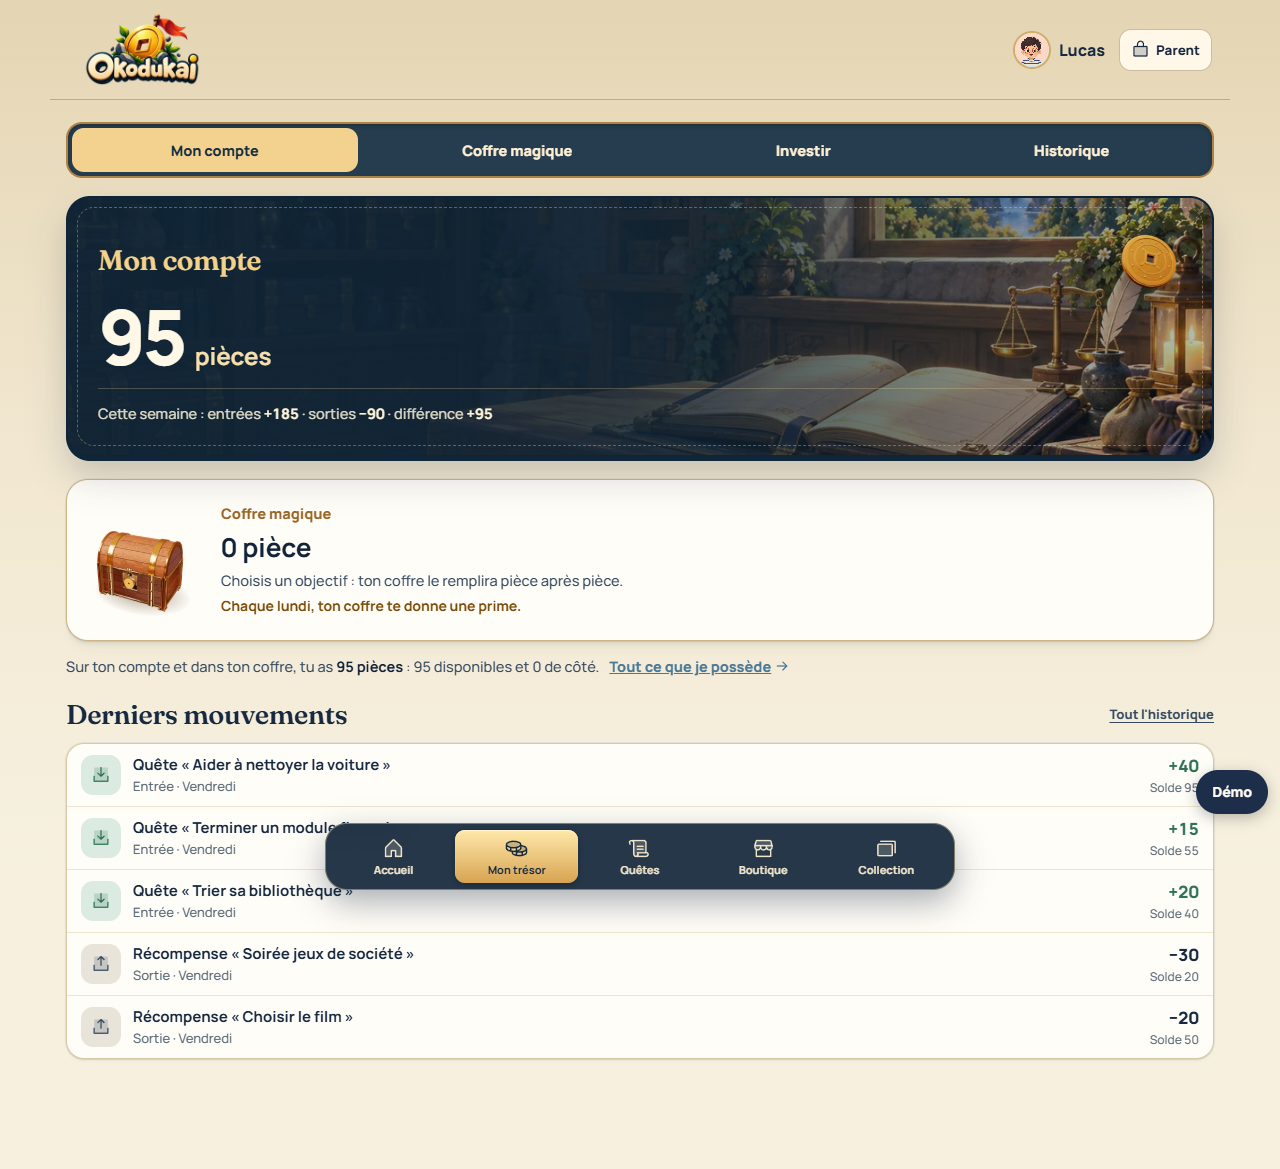
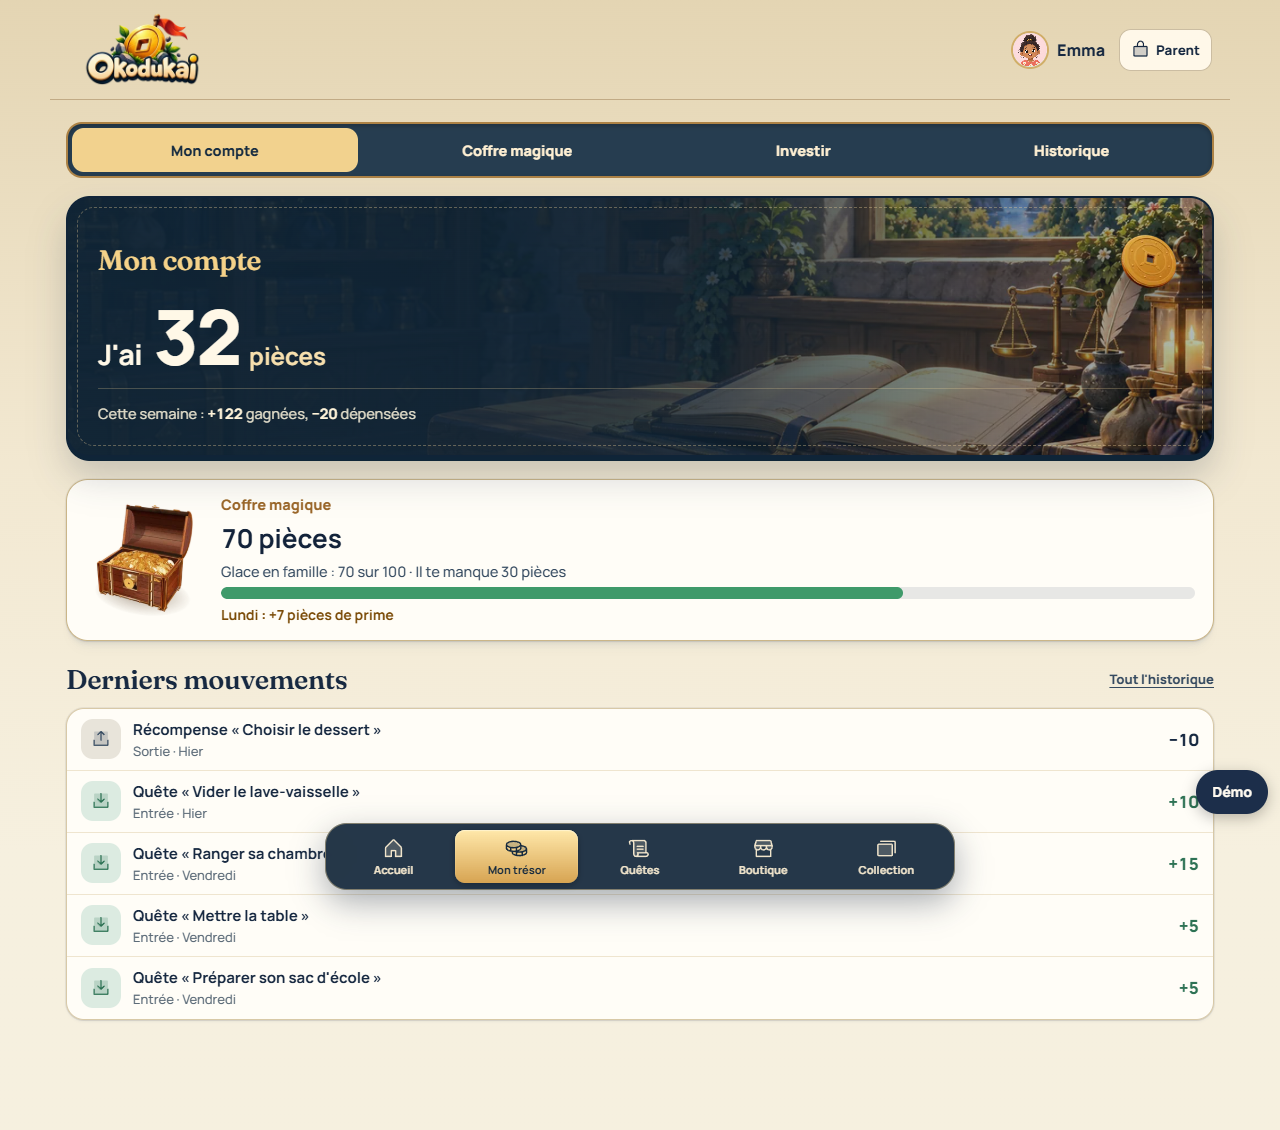
Make savings goals a visual journey

Changed region(s): [[0.0312, 0.0, 1.0, 0.9292], [0.7812, 0.031, 0.9375, 0.0619]]

diff --git a/apps/web/src/components/GoalJourney.tsx b/apps/web/src/components/GoalJourney.tsx
@@ -1,0 +1,35 @@
+import { CoinArt } from "../art/CoinArt";
+import { rewardArtworkName } from "./RewardArt";
+import { defineCopy, useCopy } from "../i18n";
+import "../styles/goal-journey.css";
+
+const copy = defineCopy({
+  fr: { progress: (title: string, present: number, target: number) => `Chemin vers ${title} : ${present} pièces sur ${target}` },
+  en: { progress: (title: string, present: number, target: number) => `Path to ${title}: ${present} of ${target} coins` },
+});
+
+/** A visual path to a goal; the progress values always come from the server. */
+export function GoalJourney({ title, present, target }: { title: string; present: number; target: number }) {
+  const t = useCopy(copy);
+  const art = rewardArtworkName(title);
+  const capped = Math.min(Math.max(0, present), Math.max(1, target));
+  const percent = Math.min(100, Math.max(0, target > 0 ? present / target * 100 : 0));
+  const image = art ? `/assets/rewards/reward-${art}` : "/assets/goals/goal-waypost";
+
+  return <div className="goal-journey" role="progressbar" aria-label={t.progress(title, present, target)} aria-valuemin={0} aria-valuemax={Math.max(1, target)} aria-valuenow={capped}>
+    <div className="goal-journey-path" aria-hidden="true">
+      <div className="goal-journey-walked" style={{ width: `${percent}%` }}><CoinArt size={38} /></div>
+    </div>
+    <img
+      className="goal-journey-destination"
+      src={`${image}-256.webp`}
+      srcSet={`${image}-256.webp 256w, ${image}-512.webp 512w`}
+      sizes="(max-width: 600px) 90px, 115px"
+      alt=""
+      loading="lazy"
+      width="115"
+      height="115"
+      aria-hidden="true"
+    />
+  </div>;
+}

diff --git a/apps/web/src/styles/goal-journey.css b/apps/web/src/styles/goal-journey.css
@@ -1,0 +1,12 @@
+.goal-journey { position: relative; min-height: 132px; overflow: hidden; border: 1px solid #b7ae81; border-radius: 13px; background: radial-gradient(ellipse at 29% 98%, #b4c898 0 21%, transparent 50%), linear-gradient(180deg, #dce8db, #c6d5b1 72%, #a5be8f); }
+.goal-journey-path { position: absolute; left: 22px; right: 123px; bottom: 31px; height: 20px; border-bottom: 6px dashed #8a704b; transform: rotate(-2deg); }
+.goal-journey-walked { position: absolute; left: 0; bottom: -6px; height: 6px; border-radius: 6px; background: #d4a34a; transition: width 360ms ease-out; }
+.goal-journey-walked img { position: absolute; right: -18px; bottom: -13px; width: 38px; height: 38px; filter: drop-shadow(0 4px 3px rgba(57, 49, 28, .25)); }
+.goal-journey-destination { position: absolute; right: 10px; bottom: 5px; width: 115px; height: 115px; object-fit: contain; filter: drop-shadow(0 8px 5px rgba(40, 63, 42, .24)); }
+.money-goal--reached .goal-journey { background: radial-gradient(ellipse at 29% 98%, #c6d6a9 0 21%, transparent 50%), linear-gradient(180deg, #f4ebcc, #d8e4c6 72%, #b5c998); }
+@media (max-width: 600px) {
+  .goal-journey { min-height: 112px; }
+  .goal-journey-path { left: 16px; right: 98px; bottom: 27px; }
+  .goal-journey-destination { width: 94px; height: 94px; right: 4px; bottom: 5px; }
+}
+@media (prefers-reduced-motion: reduce) { .goal-journey-walked { transition: none; } }

diff --git a/apps/web/src/components/RewardArt.tsx b/apps/web/src/components/RewardArt.tsx
@@ -7,13 +7,17 @@ const artwork = [
   { pattern: /jeu[x]? de soci[eé]t[eé]|board.?game|game night/i, name: "family-game" },
 ];
 
+export function rewardArtworkName(title: string) {
+  return artwork.find((item) => item.pattern.test(title))?.name ?? null;
+}
+
 /** Parent-defined rewards remain open-ended; known family moments get their own objects. */
 export function RewardArt({ title, category }: { title: string; category: "EXPERIENCE" | "OBJET" }) {
-  const found = artwork.find((item) => item.pattern.test(title));
+  const found = rewardArtworkName(title);
   if (!found) return <span className="reward-item-art reward-item-art--fallback" aria-hidden="true"><GameIcon name={category === "EXPERIENCE" ? "ticket" : "gift"} size={45} /></span>;
   return <span className="reward-item-art" aria-hidden="true"><img
-    src={`/assets/rewards/reward-${found.name}-256.webp`}
-    srcSet={`/assets/rewards/reward-${found.name}-256.webp 256w, /assets/rewards/reward-${found.name}-512.webp 512w`}
+    src={`/assets/rewards/reward-${found}-256.webp`}
+    srcSet={`/assets/rewards/reward-${found}-256.webp 256w, /assets/rewards/reward-${found}-512.webp 512w`}
     sizes="(max-width: 540px) 140px, 230px"
     loading="lazy"
     alt=""

diff --git a/apps/web/src/pages/child/money/MoneyVault.tsx b/apps/web/src/pages/child/money/MoneyVault.tsx
@@ -4,7 +4,7 @@ import { CoinFlight, type Flight } from "../../../art/CoinFlight";
 import { api, ApiError } from "../../../lib/api";
 import { chestStateFor, intentKey, pieces, type MoneyOverview } from "../../../lib/money";
 import { ChestArt } from "../../../art/ChestArt";
-import { ProgressBar } from "../../../components/ProgressBar";
+import { GoalJourney } from "../../../components/GoalJourney";
 import { MoneyLoadError, useMoneyOverview } from "./MoneyAccount";
 import { FinanceTip } from "../../../components/finance/FinanceTip";
 import { FinanceQuestion } from "../../../components/finance/FinanceQuestion";
@@ -414,7 +414,7 @@ export function MoneyVault() {
                 </strong>
                 <span>{t.of(goal.present, goal.targetCoins)}</span>
               </div>
-              <ProgressBar value={goal.present} max={goal.targetCoins} />
+              <GoalJourney title={goal.title} present={goal.present} target={goal.targetCoins} />
               <p>{goal.reached ? (goal.rewardId ? t.reachedShop(goal.title) : t.reached) : t.missing(pieces(goal.missing))}</p>
               {data.goals.length > 1 && (
                 <div className="money-goal-order">

diff --git a/docs/CHILD_UI_REDESIGN.md b/docs/CHILD_UI_REDESIGN.md
@@ -18,7 +18,7 @@ L'accueil est une scène navigable. Chaque destination est un lien HTML nommé e
 
 Les pièces et XP demeurent des valeurs serveur. Une quête en attente n'affiche pas son gain comme acquis. Le compte garde un relevé lisible ; les placements restent une simulation pédagogique. Les cartes et l'ouverture de booster existantes sont réemployées.
 
-L'XP fait aussi pousser un arbre personnel, visible dans le HUD et sur le profil. Cinq illustrations de la même espèce correspondent aux niveaux 1, 5, 10, 20 et 30. La taille varie légèrement entre ces seuils selon l'XP du niveau courant ; le prochain seuil est indiqué en texte. Un gain détecté depuis la dernière visite sur l'appareil déclenche une réaction courte, jamais un gain simulé. Ce compagnon visuel est purement cosmétique ; les nombres et les récompenses restent ceux du serveur. Le registre de compte possède maintenant sa propre scène intérieure, avec le solde sur une surface sombre lisible.
+L'XP fait aussi pousser un arbre personnel, visible dans le HUD et sur le profil. Cinq illustrations de la même espèce correspondent aux niveaux 1, 5, 10, 20 et 30. La taille varie légèrement entre ces seuils selon l'XP du niveau courant ; le prochain seuil est indiqué en texte. Un gain détecté depuis la dernière visite sur l'appareil déclenche une réaction courte, jamais un gain simulé. Ce compagnon visuel est purement cosmétique ; les nombres et les récompenses restent ceux du serveur. Le registre de compte possède maintenant sa propre scène intérieure, avec le solde sur une surface sombre lisible. Chaque objectif du coffre est une destination au bout d'un chemin : la pièce avance selon le montant du serveur, les quatre récompenses illustrées connues montrent leur objet, et les titres libres utilisent un poteau sans texte peint.
 
 ## Deux appareils, un foyer
 
@@ -30,7 +30,7 @@ Depuis l'espace parent, **Espace enfant** ouvre le choix d'un profil. Pour prêt
 - À 768 px, le panorama montre les six bâtiments et les panneaux de contenu restent limités en largeur.
 - À 1280 px, le monde remplit une grande scène sans étirer les fiches de lecture. La navigation flotte au bas de la fenêtre, sans couvrir les plaques du village.
 - Les actions ont au moins 44 px ; le focus est visible. Les animations s'arrêtent avec `prefers-reduced-motion`.
-- L'arbre, le profil et le registre de compte ont été capturés aux trois largeurs dans `docs/screenshots/child-experience-*` ; la capture est régénérable par `node apps/web/scripts/capture-child-experience.mjs` avec Chrome local.
+- L'arbre, le profil, le registre et un objectif du coffre ont été capturés aux trois largeurs dans `docs/screenshots/child-experience-*` ; la capture est régénérable par `node apps/web/scripts/capture-child-experience.mjs` avec Chrome local.
 
 ## Langue et contenu
 

diff --git a/docs/RESTE_A_FAIRE.md b/docs/RESTE_A_FAIRE.md
@@ -16,7 +16,7 @@
 - Reprise de 04 h 05 : galerie, chambre du trésor, observatoire, bibliothèque et échoppe disposent de décors distincts. Deux personnages en pied avec poses repos/victoire, quatre illustrations de récompenses et quatre scènes pédagogiques sont intégrés. Les sources PNG et le script `apps/web/scripts/optimize-child-art.mjs` sont versionnés ; les WebP sont servis en tailles adaptées.
 - Journal de quêtes illustré, bibliothèque et leçons visuelles, échoppe à objets, personnage sur la place et dans le profil. Les nouvelles chaînes du hub, du journal, de la boutique, du profil, du PIN et du passage parent/enfant ont une version française et anglaise.
 - Revue en navigateur à 375, 768 et 1280 px ; les captures sont dans `docs/screenshots/child-*`. Les plaques de la place ne sont plus cachées par la navigation ; nom complet dans le HUD mobile et quatre onglets d'argent visibles. `docs/CHILD_UI_REDESIGN.md`, `CHILD_MOTION.md` et `CHILD_DESIGN_AUDIT.md` décrivent les décisions et limites.
-- Restent pour une complétude graphique stricte : poses heureux/fier/réflexion/découverte et personnages en pied pour les 14 autres portraits, calques visuels des paliers 5/10/20/30, décor spécifique du registre de compte et illustration détaillée de chaque objectif. Les contenus éditoriaux du seed et du foyer restent en français. Le catalogue d'images de cartes existant reste inchangé.
+- Restent pour une complétude graphique stricte : poses heureux/fier/réflexion/découverte et personnages en pied pour les 14 autres portraits, calques visuels des paliers 5/10/20/30 et objets uniques pour les objectifs libres dont le titre n'est connu qu'à la création. Le registre de compte et le chemin illustré des objectifs sont livrés. Les contenus rédigés par le foyer restent dans leur langue d'origine. Le catalogue d'images de cartes existant reste inchangé.
 - Accueil enfant remplacé par la Vallée d’Okodukai, avec fonds WebP distincts pour ordinateur et mobile, lieux cliquables, HUD et accès aux quêtes. Un profil enfant permet de choisir un avatar du roster existant.
 - Le parent peut définir un PIN parent, passer sur l’espace d’un enfant sur le même téléphone, puis revenir avec ce PIN. Il peut aussi créer un lien à usage unique valable 24 h pour le téléphone personnel de l’enfant ; l’enfant entre son PIN habituel. Le lien ne donne jamais accès au compte parent.
 - Migration `20260927090000_child_device_access` appliquée en local ; elle doit être appliquée sur les autres bases au déploiement. Tests API : 74/74 verts. Build complet des trois workspaces : vert. Accueil et dialogue parent vérifiés en navigateur à 375 px et sur ordinateur.

diff --git a/docs/ASSET_REGISTRY.md b/docs/ASSET_REGISTRY.md
@@ -36,6 +36,7 @@ code du dépôt (aucune banque d'images, aucun modèle génératif externe, aucu
 | Récompenses familiales | `rewards/reward-{cinema,icecream,bicycle,family-game}-{256,512}.webp` | Objets générés sur fond transparent ; contrôlés puis reliés à des titres de récompenses par `RewardArt.tsx`. PNG dans `apps/web/art/source/child/` | `node apps/web/scripts/optimize-child-art.mjs` | 2026-09-27 |
 | Scènes pédagogiques | `learning/learning-{diversification,inflation,risk,compound}-{320,640}.webp` | Planche de quatre scènes générée pour la vallée puis découpée sur ses gouttières ; PNG dans `apps/web/art/source/child/` | `node apps/web/scripts/optimize-child-art.mjs` | 2026-09-27 |
 | Arbre d'aventure (5 formes) | `experience/xp-tree-{sprout,sapling,young,flowering,mature}-{256,512}.webp` | Grand arbre généré puis quatre formes dérivées de la même référence ; lumière, tronc, feuilles et base contrôlés. Sources PNG dans `apps/web/art/source/child/` | `node apps/web/scripts/optimize-child-art.mjs` | 2026-09-27 |
+| Destination d'objectif libre | `goals/goal-waypost-{128,256,512}.webp` | Poteau et carte générés sur fond transparent à partir de la matière des objets de récompense. Source `art/source/child/goal-waypost.png` | `node apps/web/scripts/optimize-child-art.mjs` | 2026-09-27 |
 
 Les lignes « génération d'images » correspondent à des créations produites pour ce projet avec l'outil de génération d'images intégré, à partir de consignes et de références du projet. Elles ne sont pas des rendus du Studio 3D. Les sources PNG sont versionnées pour permettre l'inspection ; les WebP servis sont compressés avec sharp.
 

diff --git a/docs/CHILD_DESIGN_AUDIT.md b/docs/CHILD_DESIGN_AUDIT.md
@@ -13,13 +13,14 @@
 | Accès enfant | Profil parent sans passage clair | Choix même téléphone avec PIN parent, ou invitation unique pour un appareil distinct |
 | XP | Barre abstraite | Arbre personnel en cinq formes, croissance graduelle et profil explicatif |
 | Mon compte | Aplat bleu et solde | Registre intérieur illustré, solde sur contraste sombre, historique conservé lisible |
+| Objectifs | Barre seule | Chemin parcouru par la pièce, destination illustrée, montant écrit et progression accessible |
 
 ## Captures contrôlées
 
 - 375 px : `screenshots/child-home-mobile-375.png`, `child-quests-mobile-375.png`, `child-vault-mobile-375.png`, `child-shop-mobile-375.png`, `child-profile-mobile-375.png`.
 - 768 px : `screenshots/child-home-tablet-768.png`, `child-gallery-tablet-768.png`.
 - 1280 px : `screenshots/child-home-desktop-1280.png`, `child-observatory-desktop-1280.png`.
-- 375, 768 et 1280 px : `screenshots/child-experience-{home,profile,account}-*.png`, régénérables par `node apps/web/scripts/capture-child-experience.mjs`.
+- 375, 768 et 1280 px : `screenshots/child-experience-{home,profile,account,goal}-*.png`, régénérables par `node apps/web/scripts/capture-child-experience.mjs`.
 
 Les captures viennent du foyer local de démonstration ; le bouton « Démo » n'apparaît pas en production. Le contrôle a aussi porté sur le dialogue PIN à 375 px, sa fermeture par Échap et l'absence de débordement horizontal sur les principaux écrans.
 

diff --git a/docs/CHILD_ASSET_PLAN.md b/docs/CHILD_ASSET_PLAN.md
@@ -24,5 +24,6 @@ Le registre des fichiers livrés et de leur provenance est `ASSET_REGISTRY.md`. 
 | `child-registry-interior-{1280,1920}.webp` | Registre de compte enfant | WebP panoramique | Comptoir de bois, registre ouvert, vallée par la fenêtre ; zone calme à gauche pour les chiffres | P1 | Livré |
 | `hub-tier-{5,10,20,30}.webp` | Progression du village | WebP transparent, calques 1280/720 | Même caméra que les fonds | P2 | Prévu dans l’architecture |
 | `xp-tree-{sprout,sapling,young,flowering,mature}-{256,512}.webp` | HUD et profil, croissance avec l'XP | WebP transparent, deux tailles | Trois-quarts, arbre courbe à fleurs ivoire, base moussue et lumière de la vallée | P1 | Livré, cinq formes |
+| `goal-waypost-{128,256,512}.webp` | Destination des objectifs libres | WebP transparent, trois tailles | Poteau en bois, carte sans texte, médaillon vide ; trois-quarts | P1 | Livré |
 
 Les sources de la nouvelle série sont dans `apps/web/art/source/child/`. `node apps/web/scripts/optimize-child-art.mjs` régénère les WebP. Les images des cartes et le sachet de booster sont déjà intégrés. Leur changement demande une revue d’ensemble, car ils constituent un système de collection existant.
